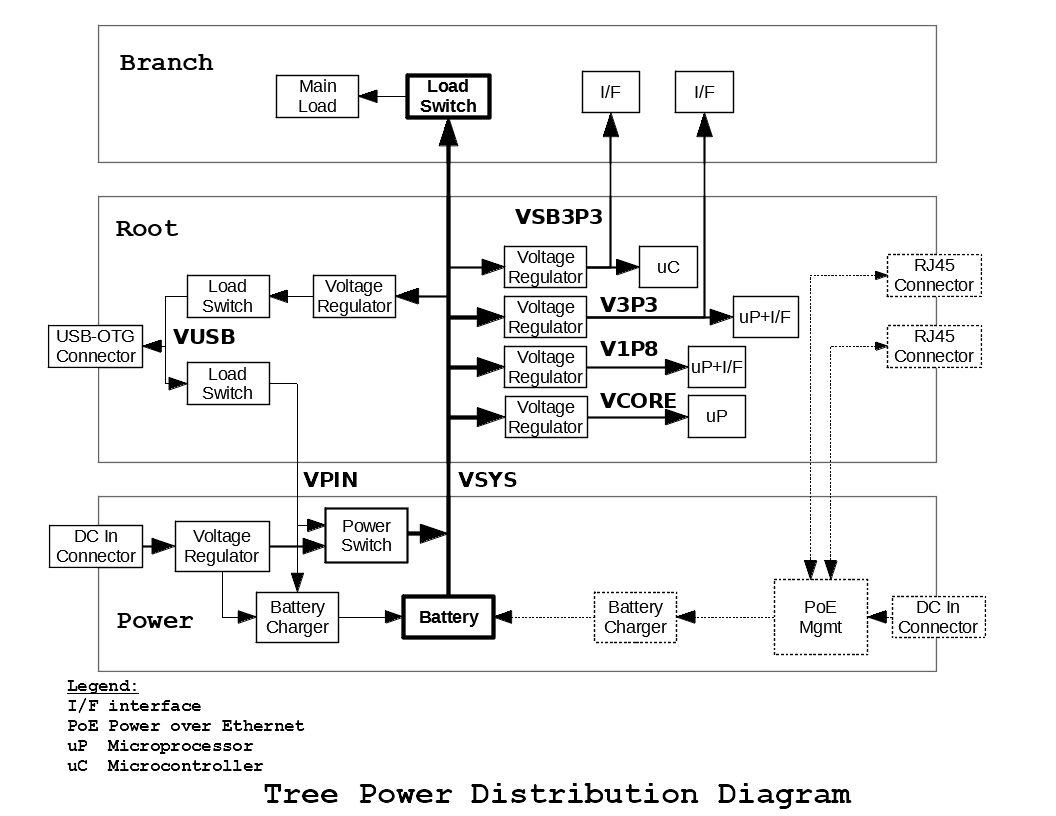
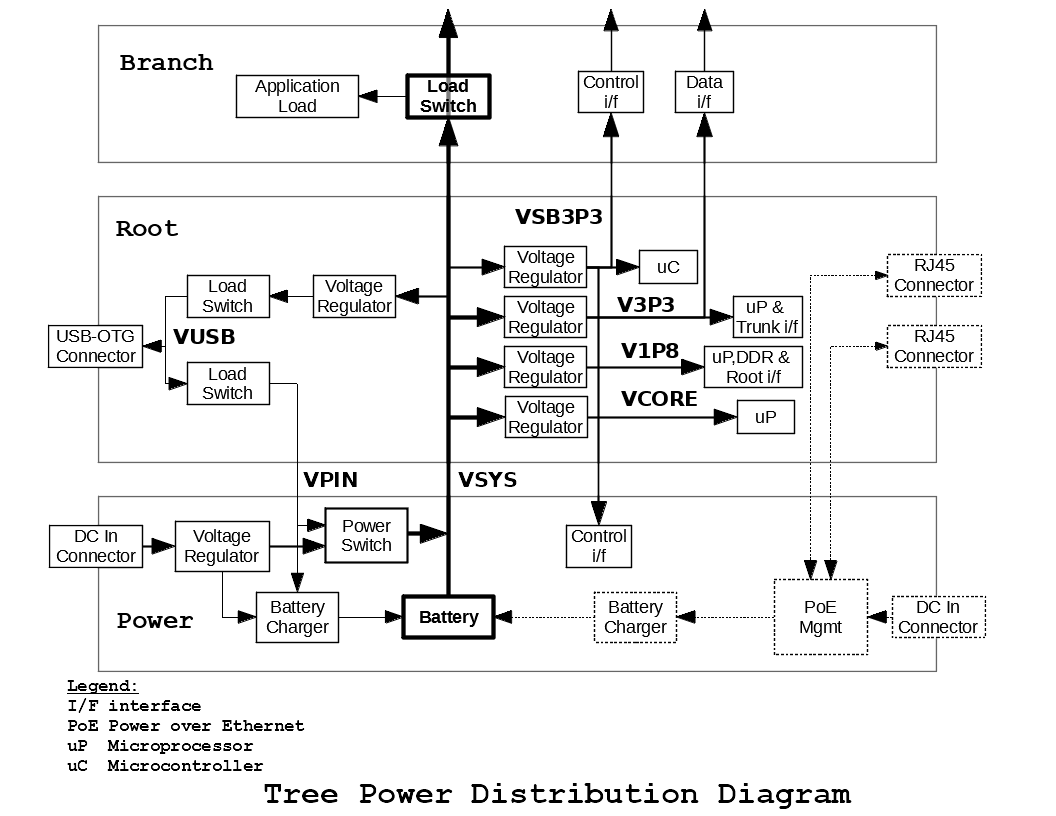
-added a couple of diagrams

diff --git a/README.md b/README.md
@@ -114,28 +114,33 @@ consumption.
 #### Tree Power Distribution
 ![alt text](https://github.com/agathis-project/salix-arctica/blob/master/AP-1/TreePowerDistribution.PNG)
 
-#### VCORE Regulator
-+++ insert schematic detail
-
-#### V1P8 Regulator
-+++ insert schematic detail
+#### VCORE and V1P8 Regulator
+![alt text](https://github.com/agathis-project/salix-arctica/blob/master/AP-1/VCORE_and_V1P8_regulators.PNG
 
 #### V3P3 Regulator
-+++ insert schematic detail
+![alt text](https://github.com/agathis-project/salix-arctica/blob/master/AP-1/V3P3_regulator.PNG
 
 #### VUSB Regulator
-+++ insert schematic detail
+![alt text](https://github.com/agathis-project/salix-arctica/blob/master/AP-1/VUSB_regulator.PNG
 
 #### Power Module Connector and POE Connectors
 +++ insert schematic detail
 
 #### Power Distribution on Trunk Connector
-+++ insert schematic detail
+
+- VSYS    connected to pins A48-50; filtered with FB4(ferrite bead 220 Ohm @1ooMHz) C53(220R) and C106 (100n)
+- VSB3P3  connected to pins A47
+- V3P3    connected to pin  A6
+- GND     connected to pins A32,A45,B5,B7,B16,B18,B20,B25-26,B38,B41,B44,B47,B50
+   - GND is multipurpose:
+      - shared as return path for VSYS,VSB3P3,V3P3 and all digital signals 
+      - shield/return path for high speed controlled impedance signals (USB)
+	  - shield/return path for high speed clocks (SPI and SDIO clocks)
 
 ### Microprocessor
 The microprocessor used in this variant of the root is AM3356BZCZA80 made by TI.
 This is an ARM Cortex A-8 32bit RISC Processor running up to 600MHz specified 
-over an extended industrial temperatures range of -40 to 105C. 
+over an extended industrial temperatures range of -40C to 105C. 
 It includes two Programmable Real-Time Units (PRUs) 32-Bit Load/Store RISC 
 processor capable of running at 200 MHz.
 
